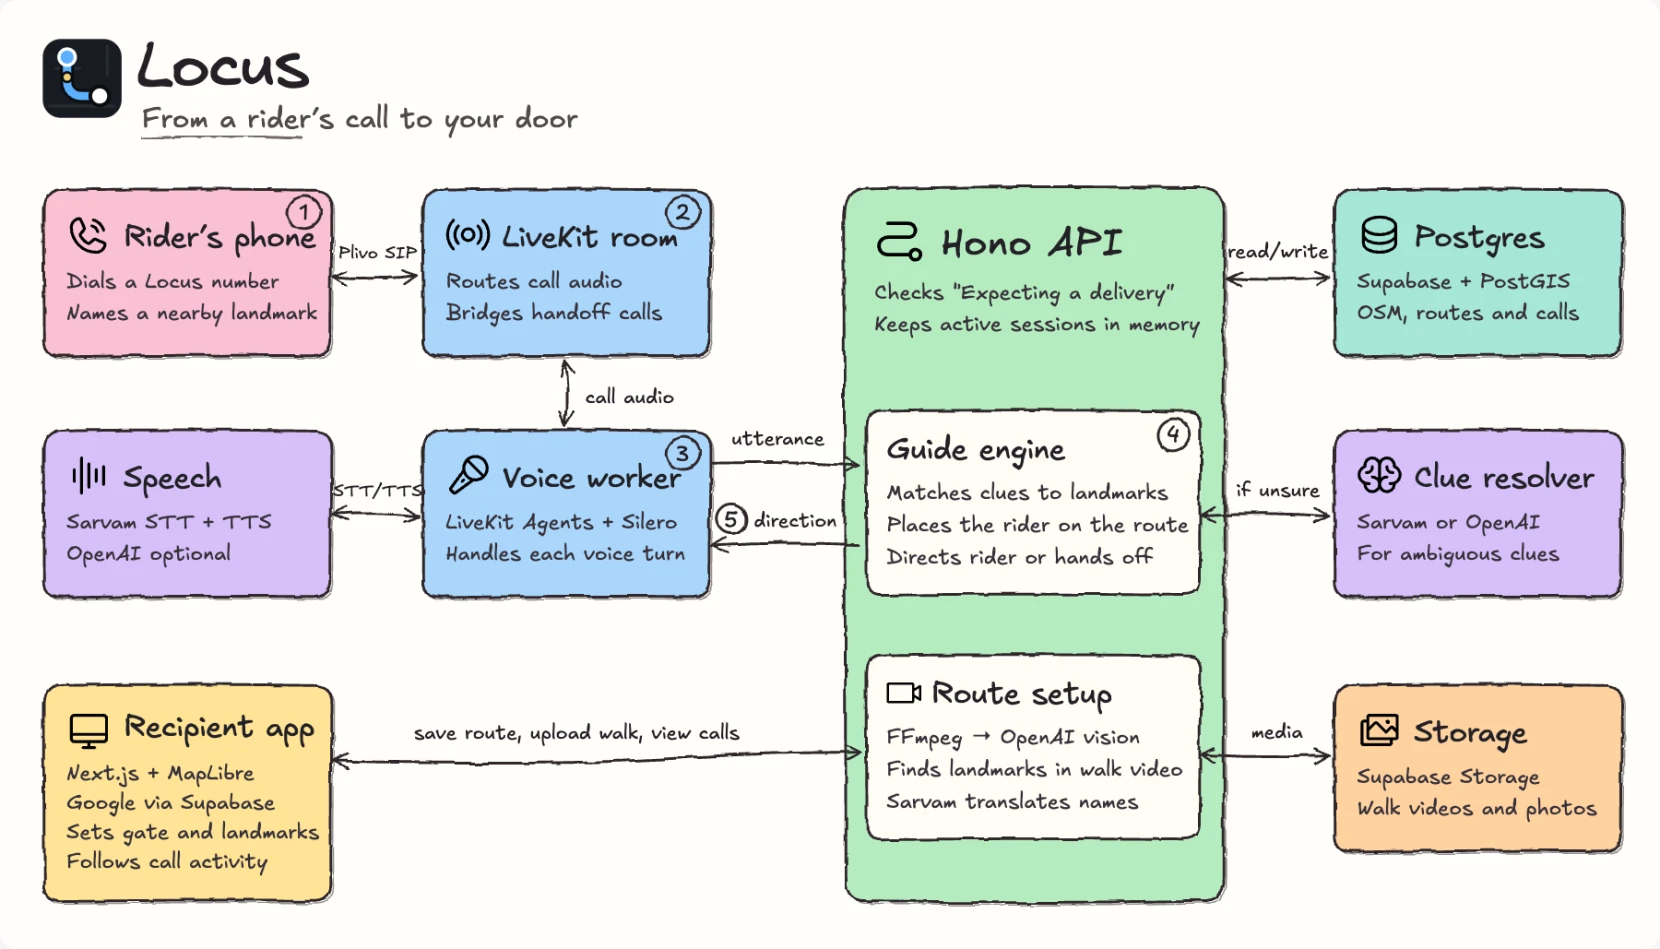
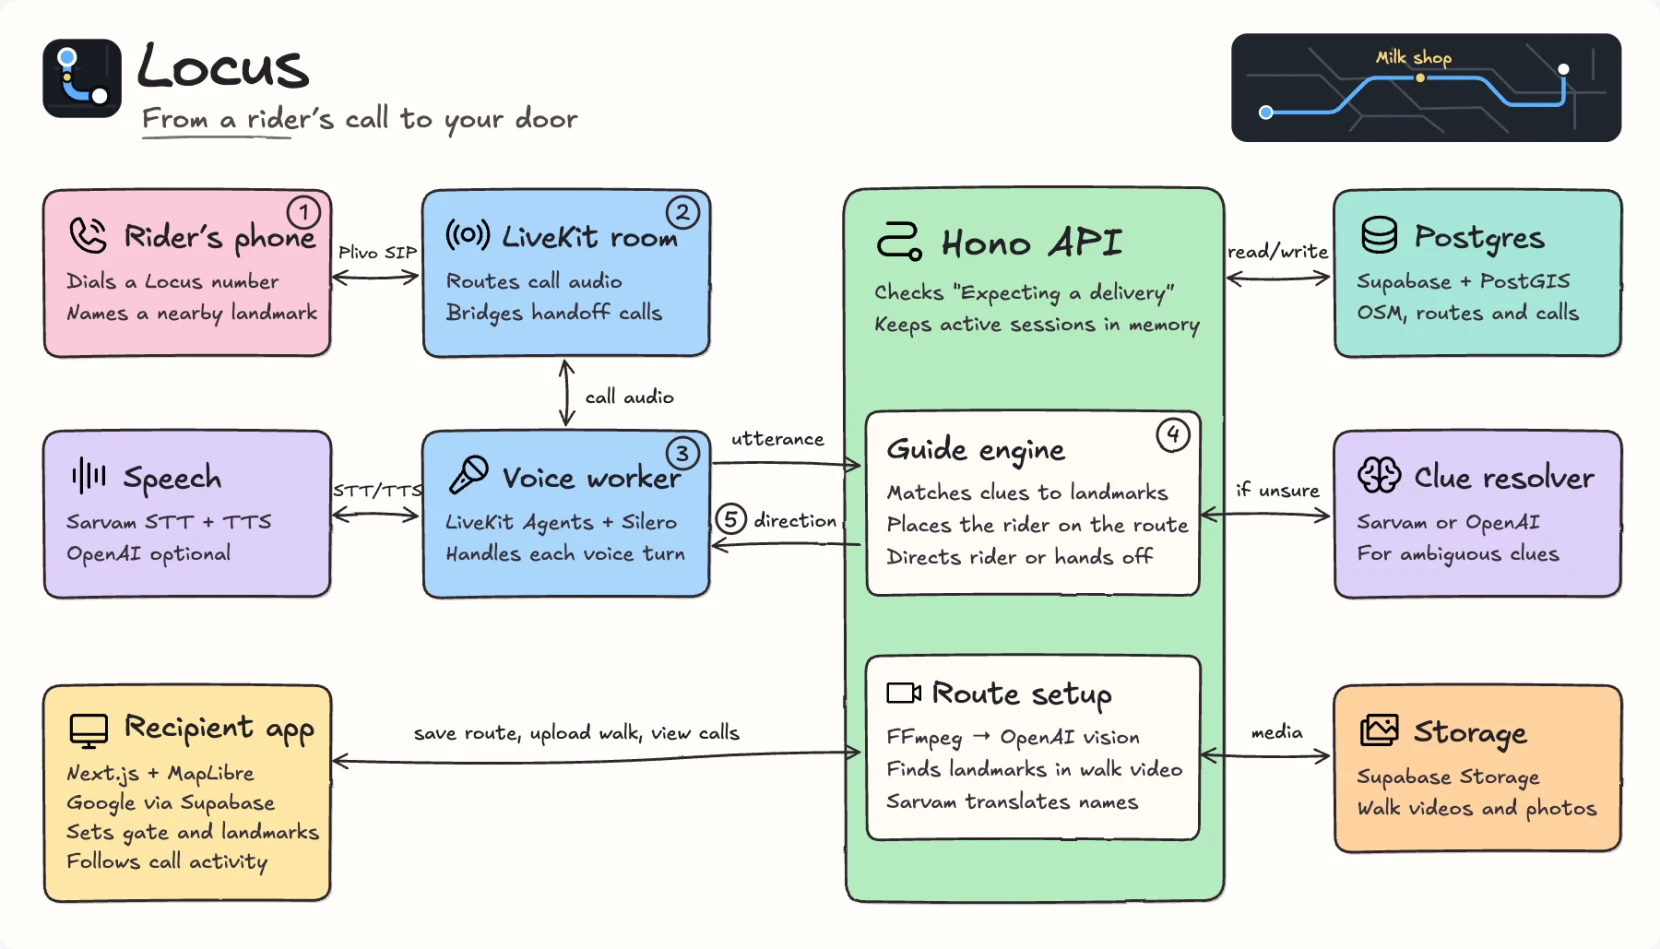
Refine diagram ink and add a Locus route sketch

diff --git a/diagrams/architecture.html b/diagrams/architecture.html
@@ -121,7 +121,7 @@ SOFTWARE.
     body { margin: 0; padding: 20px; }
     main { max-width: 1440px; margin: auto; overflow: auto; border-radius: 12px; }
     main:focus-visible { outline: 2px solid #171b21; outline-offset: 3px; }
-    svg.board { display: block; width: 100%; min-width: 1120px; height: auto; background: #fffdf9; }
+    svg.board { display: block; width: 100%; min-width: 1120px; height: auto; background: #fffefa; }
     text { fill: #232126; font: 400 17px Excalifont, "Chalkboard SE", cursive; }
     .title { font-size: 54px; letter-spacing: -2px; }
     .subtitle { font-size: 23px; fill: #504949; }
@@ -132,10 +132,10 @@ SOFTWARE.
     .short-label { font-size: 14px; }
     .number { font-size: 18px; text-anchor: middle; }
     .paper { fill: #fffcf5; }
-    .pink { fill: #fac0d4; }
+    .pink { fill: #fac9d9; }
     .blue { fill: #a9d6fc; }
-    .lavender { fill: #d6c0fa; }
-    .yellow { fill: #ffe395; }
+    .lavender { fill: #ded0fa; }
+    .yellow { fill: #ffe7a7; }
     .green { fill: #b5ecc0; }
     .mint { fill: #a6e7d8; }
     .orange { fill: #ffd2a0; }
@@ -147,7 +147,10 @@ SOFTWARE.
       stroke-linecap: round;
     }
     .rough { filter: url(#roughen); }
-    .second-stroke { opacity: .52; stroke-width: 1.15; }
+    .second-stroke { opacity: .28; stroke-width: 1.05; }
+    .map-label { fill: #f3d27a; font-size: 14px; }
+    .map-streets { fill: none; stroke: #434e5a; stroke-width: 2; stroke-linecap: round; }
+    .map-route { fill: none; stroke: #5ab0ff; stroke-width: 3.3; stroke-linecap: round; stroke-linejoin: round; }
     .arrow { marker-end: url(#tip); }
     .both { marker-start: url(#tip); }
     .icon { color: #282329; }
@@ -166,8 +169,8 @@ SOFTWARE.
       <desc id="diagram-description">One: the rider dials a Locus number. Two: Plivo SIP carries the call into a LiveKit room. Three: a LiveKit Agents worker transcribes the rider's audio through Sarvam or OpenAI. Four: the Hono guide API screens the call, matches landmarks using its OSM road graph in PostGIS, and calls a model for ambiguous clues. Five: the API returns directions or requests a handoff, and the worker speaks the directions into the call. Separately, the recipient signs in with Supabase Auth and sets their gate and landmarks in the web app. The API processes walk media with FFmpeg, OpenAI vision and Sarvam translation. Supabase Storage holds the video and photos.</desc>
       <defs>
         <filter id="roughen" x="-8%" y="-12%" width="116%" height="124%" color-interpolation-filters="sRGB">
-          <feTurbulence type="fractalNoise" baseFrequency=".037" numOctaves="3" seed="16" result="noise"/>
-          <feDisplacementMap in="SourceGraphic" in2="noise" scale="4.8" xChannelSelector="R" yChannelSelector="G"/>
+          <feTurbulence type="fractalNoise" baseFrequency=".023" numOctaves="2" seed="16" result="noise"/>
+          <feDisplacementMap in="SourceGraphic" in2="noise" scale="1.55" xChannelSelector="R" yChannelSelector="G"/>
         </filter>
         <marker id="tip" viewBox="0 0 12 12" refX="10.5" refY="6" markerWidth="7" markerHeight="7" orient="auto-start-reverse">
           <path d="M1.5 1.5 10.5 6 2 10.5" fill="none" stroke="#30272b" stroke-width="1.45" stroke-linecap="round" stroke-linejoin="round"/>
@@ -201,11 +204,21 @@ SOFTWARE.
 
         <text x="111" y="70" class="title" transform="rotate(-1 111 70)">Locus</text>
         <text x="115" y="103" class="subtitle">From a rider’s call to your door</text>
-        <path class="ink rough" stroke-opacity=".7" d="M116 112 Q175 109 244 112"/>
+        <path class="ink rough" stroke-opacity=".65" d="M116 112 Q175 109 235 112"/>
+      </g>
+
+      <g transform="translate(997 27)" aria-hidden="true">
+        <rect width="316" height="88" rx="13" fill="#20252c"/>
+        <path class="map-streets" d="M13 34 72 34 106 67 155 67 172 80 M63 12 88 37 127 36 153 61 202 60 224 80 M130 12 146 29 211 29 230 48 303 48 M239 9 278 47 278 77 M106 67 96 79 M293 13 293 37"/>
+        <path class="map-route" d="M28 64 79 64 Q85 64 89 59 L108 40 Q112 36 117 36 L198 36 Q204 36 208 41 L221 55 Q224 58 229 58 L263 58 Q269 58 269 52 L269 29"/>
+        <circle cx="28" cy="64" r="5" fill="#5ab0ff" stroke="#fffefa" stroke-width="1.7"/>
+        <circle cx="153" cy="36" r="4.5" fill="#f3d27a" stroke="#20252c" stroke-width="2"/>
+        <circle cx="269" cy="29" r="5.5" fill="#fffefa" stroke="#20252c" stroke-width="2"/>
+        <text x="117" y="24" class="map-label">Milk shop</text>
       </g>
 
       <g transform="translate(35 153)">
-        <use href="#card" x="2" y="2" class="ink second-stroke rough"/>
+        <use href="#card" x="1.35" y="1.45" class="ink second-stroke rough"/>
         <use href="#card" class="pink"/>
         <use href="#card" class="ink rough"/>
         <use href="#phone" x="18" y="18" width="38" height="38" class="icon"/>
@@ -217,7 +230,7 @@ SOFTWARE.
       </g>
 
       <g transform="translate(342 153)">
-        <use href="#card" x="2" y="2" class="ink second-stroke rough"/>
+        <use href="#card" x="1.35" y="1.45" class="ink second-stroke rough"/>
         <use href="#card" class="blue"/>
         <use href="#card" class="ink rough"/>
         <use href="#broadcast" x="18" y="18" width="38" height="38" class="icon"/>
@@ -229,7 +242,7 @@ SOFTWARE.
       </g>
 
       <g transform="translate(342 348)">
-        <use href="#card" x="2" y="2" class="ink second-stroke rough"/>
+        <use href="#card" x="1.35" y="1.45" class="ink second-stroke rough"/>
         <use href="#card" class="blue"/>
         <use href="#card" class="ink rough"/>
         <use href="#mic" x="18" y="18" width="38" height="38" class="icon"/>
@@ -241,7 +254,7 @@ SOFTWARE.
       </g>
 
       <g transform="translate(35 348)">
-        <use href="#card" x="2" y="2" class="ink second-stroke rough"/>
+        <use href="#card" x="1.35" y="1.45" class="ink second-stroke rough"/>
         <use href="#card" class="lavender"/>
         <use href="#card" class="ink rough"/>
         <use href="#wave" x="18" y="18" width="38" height="38" class="icon"/>
@@ -251,7 +264,7 @@ SOFTWARE.
       </g>
 
       <g transform="translate(35 554)">
-        <use href="#tall-card" x="2" y="2" class="ink second-stroke rough"/>
+        <use href="#tall-card" x="1.35" y="1.45" class="ink second-stroke rough"/>
         <use href="#tall-card" class="yellow"/>
         <use href="#tall-card" class="ink rough"/>
         <use href="#desktop" x="18" y="18" width="38" height="38" class="icon"/>
@@ -263,7 +276,7 @@ SOFTWARE.
       </g>
 
       <g transform="translate(683 151)">
-        <use href="#api-group" x="2" y="2" class="ink second-stroke rough"/>
+        <use href="#api-group" x="1.35" y="1.45" class="ink second-stroke rough"/>
         <use href="#api-group" class="green"/>
         <use href="#api-group" class="ink rough"/>
         <use href="#path" x="23" y="20" width="45" height="45" class="icon"/>
@@ -293,7 +306,7 @@ SOFTWARE.
       </g>
 
       <g transform="translate(1080 153)">
-        <use href="#card" x="2" y="2" class="ink second-stroke rough"/>
+        <use href="#card" x="1.35" y="1.45" class="ink second-stroke rough"/>
         <use href="#card" class="mint"/>
         <use href="#card" class="ink rough"/>
         <use href="#database" x="18" y="18" width="38" height="38" class="icon"/>
@@ -303,7 +316,7 @@ SOFTWARE.
       </g>
 
       <g transform="translate(1080 348)">
-        <use href="#card" x="2" y="2" class="ink second-stroke rough"/>
+        <use href="#card" x="1.35" y="1.45" class="ink second-stroke rough"/>
         <use href="#card" class="lavender"/>
         <use href="#card" class="ink rough"/>
         <use href="#brain" x="18" y="18" width="38" height="38" class="icon"/>
@@ -313,7 +326,7 @@ SOFTWARE.
       </g>
 
       <g transform="translate(1080 554)">
-        <use href="#card" x="2" y="2" class="ink second-stroke rough"/>
+        <use href="#card" x="1.35" y="1.45" class="ink second-stroke rough"/>
         <use href="#card" class="orange"/>
         <use href="#card" class="ink rough"/>
         <use href="#images" x="18" y="18" width="38" height="38" class="icon"/>
